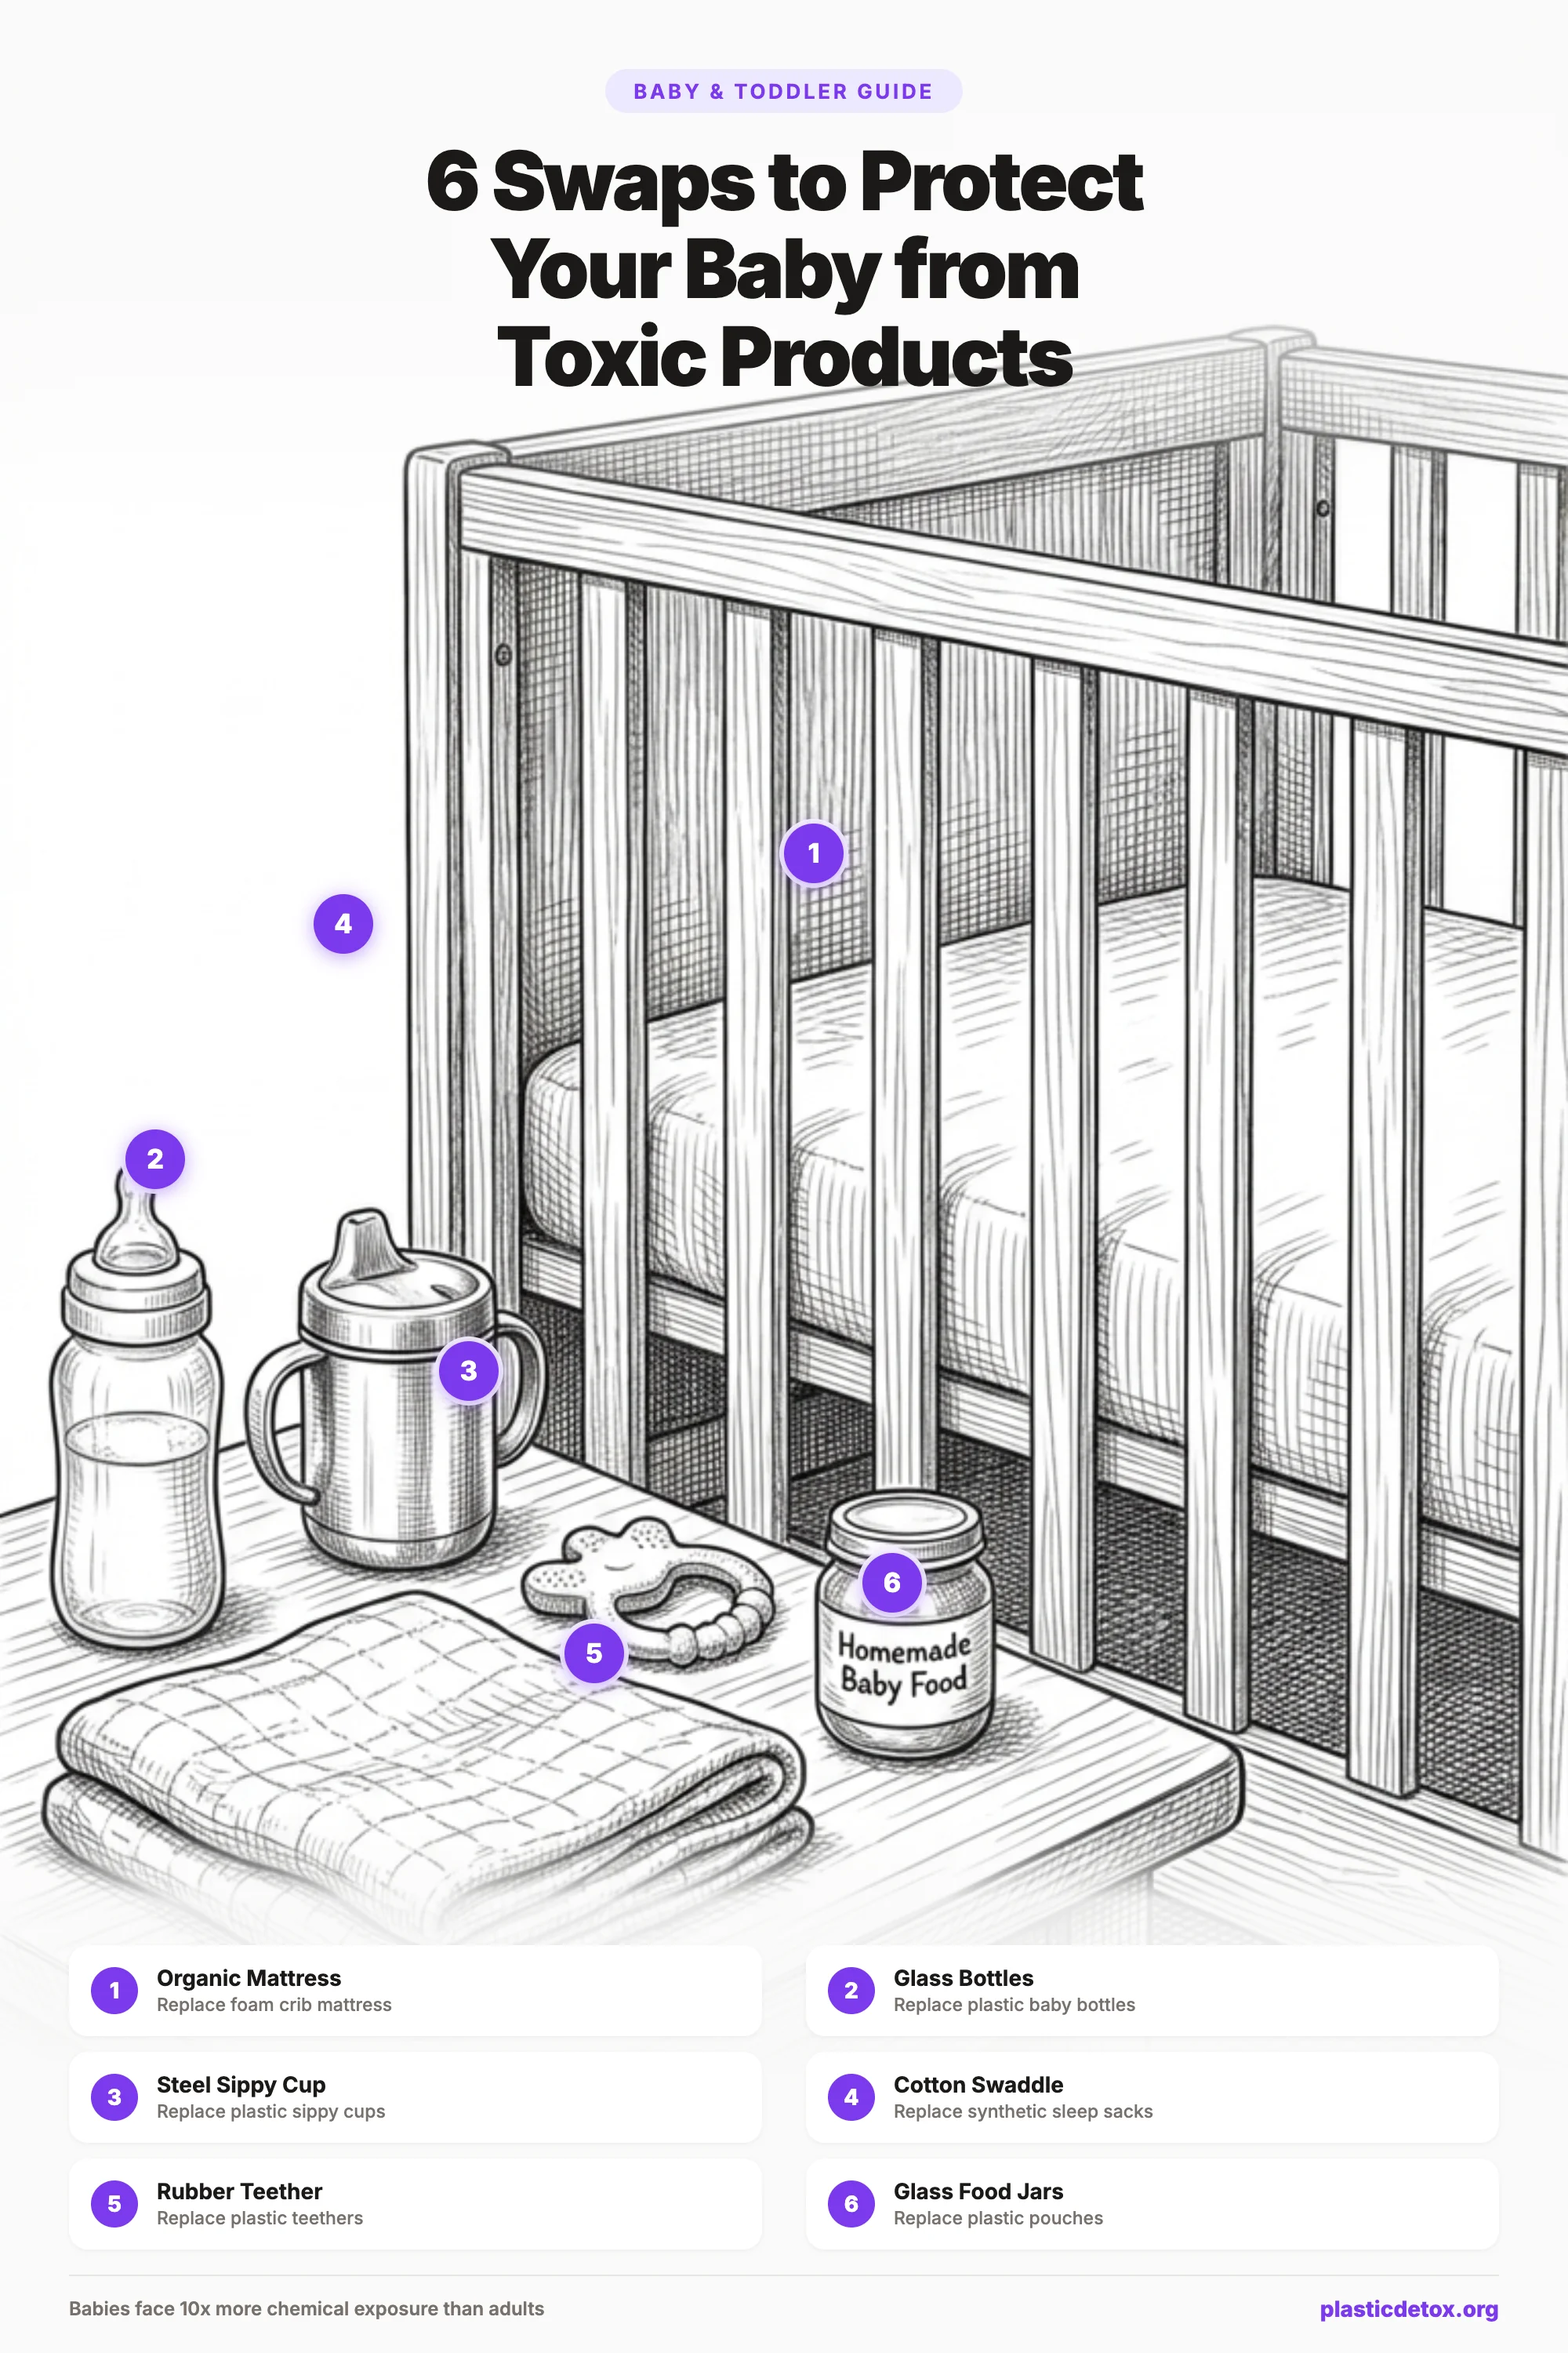
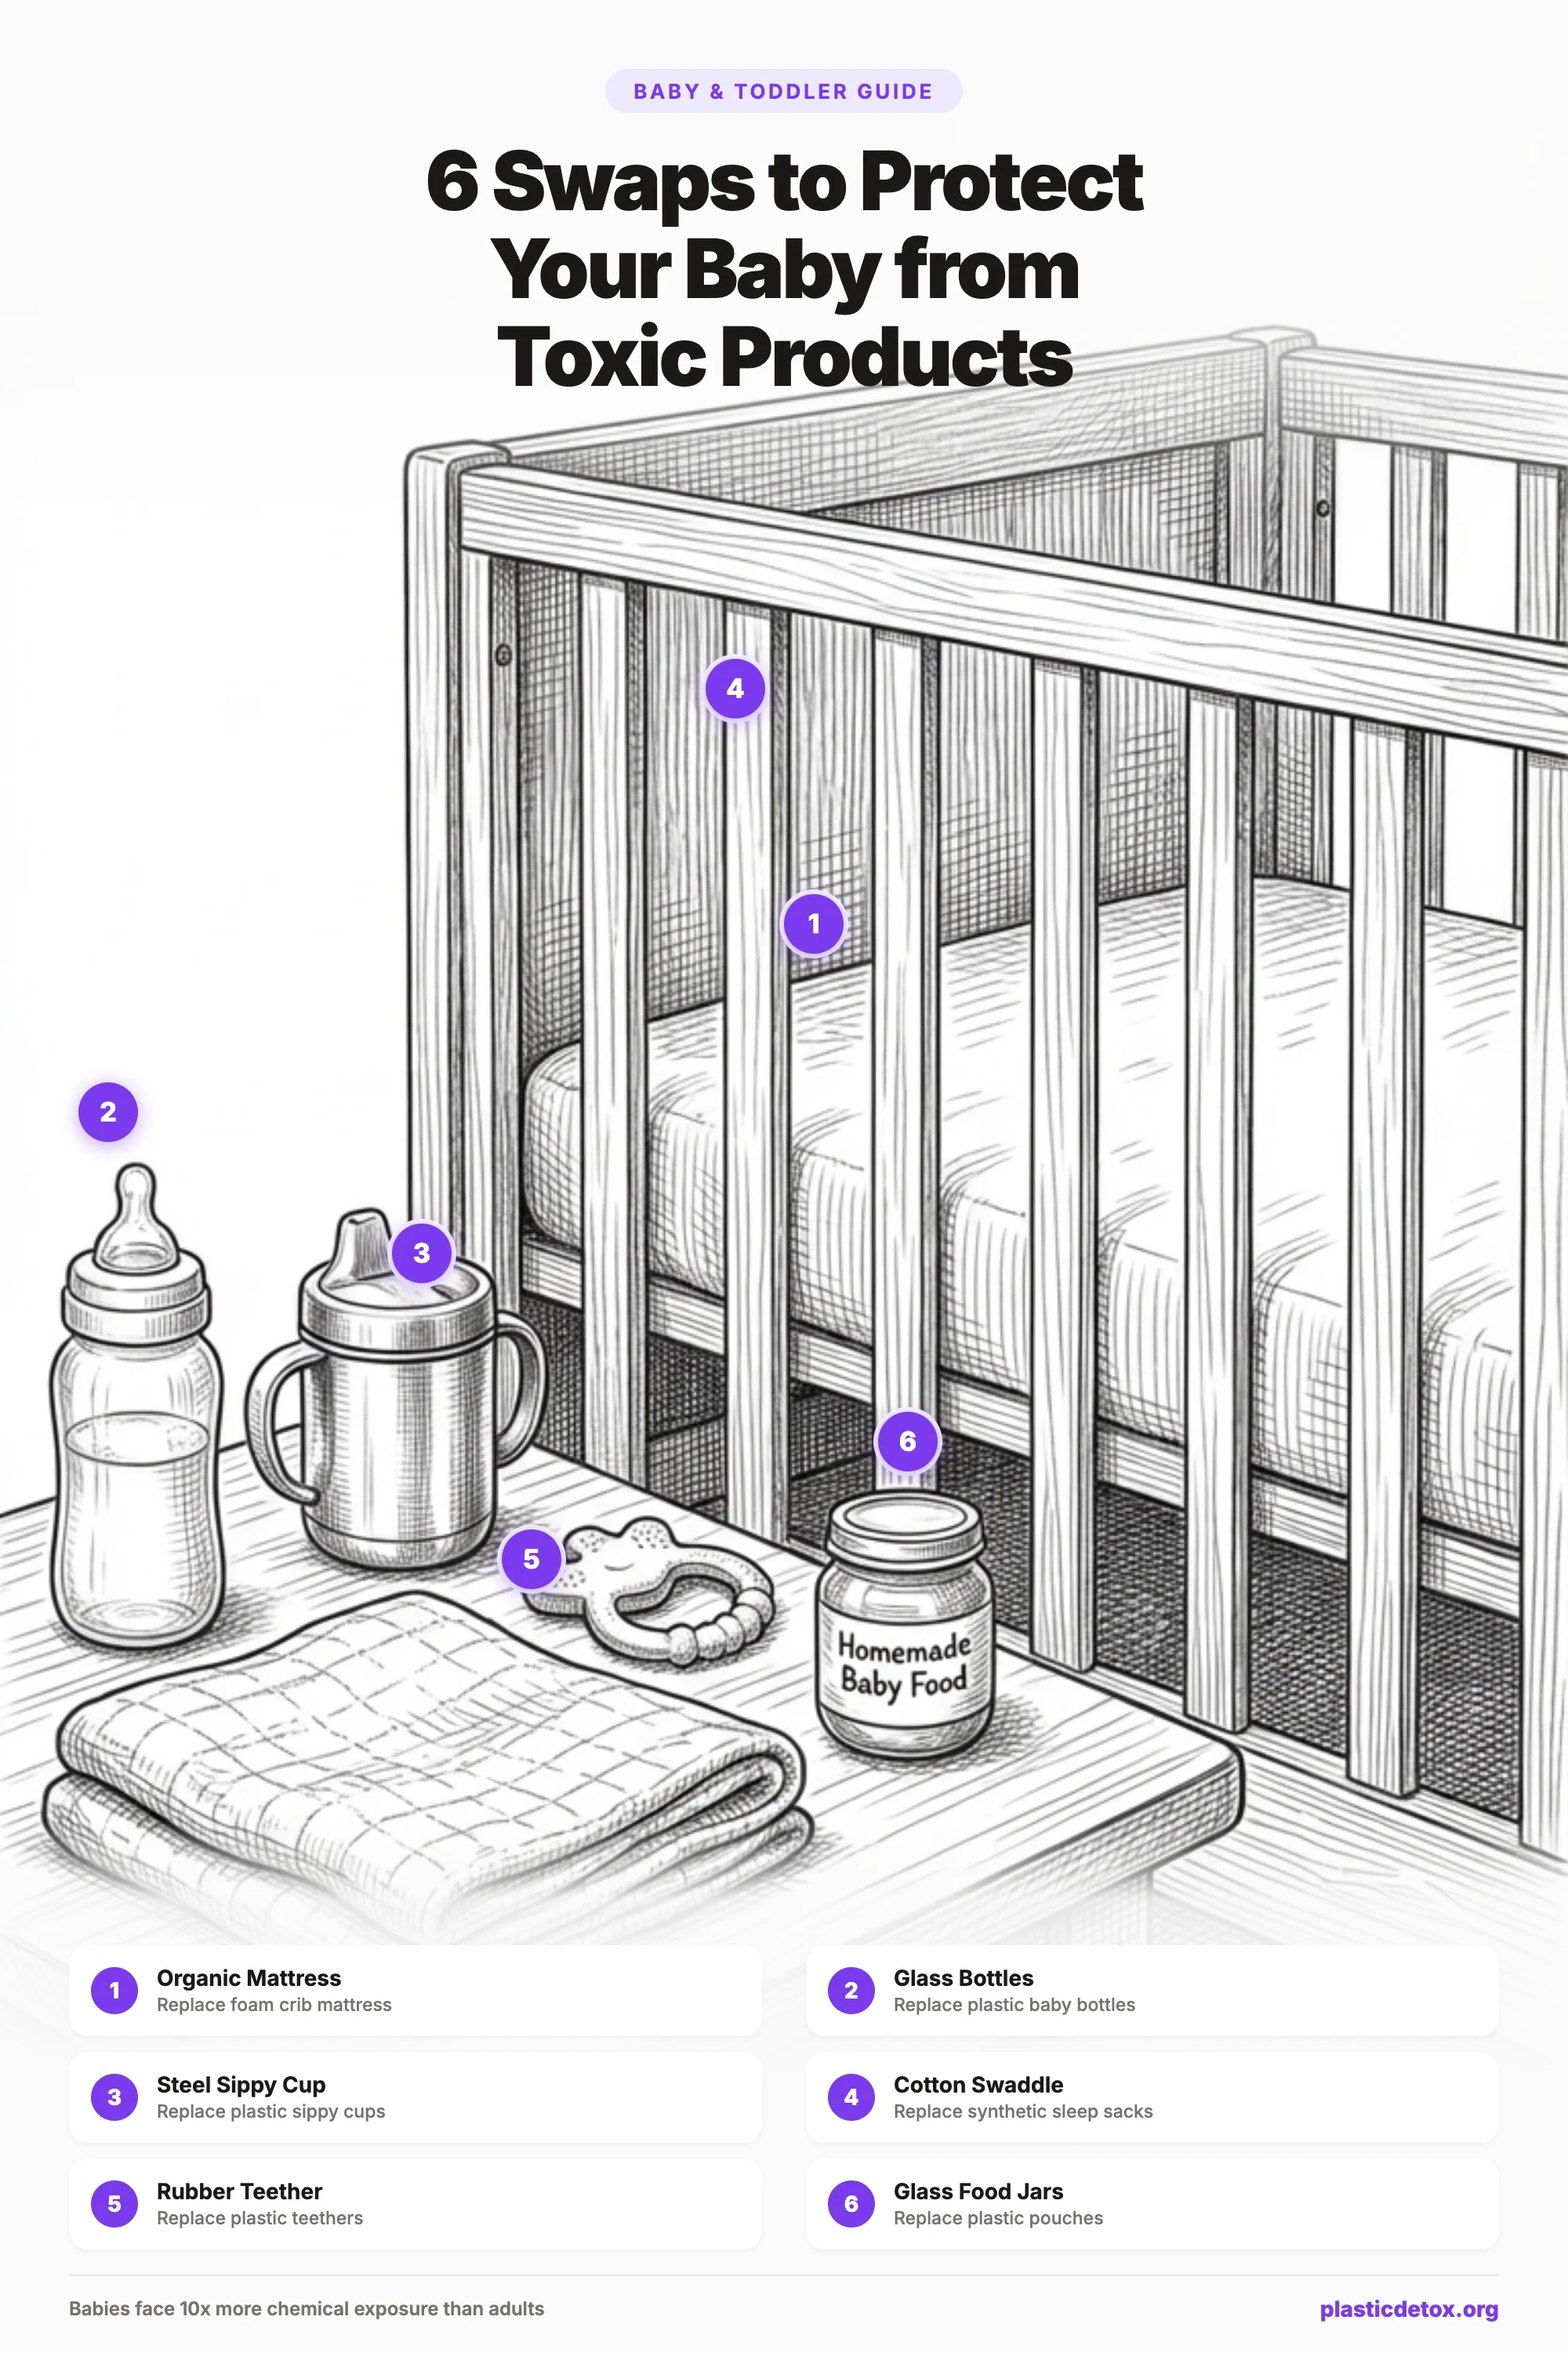
Reposition pin badges with larger shifts for clarity

diff --git a/images/baby-guide-swap-pinterest.html b/images/baby-guide-swap-pinterest.html
@@ -88,12 +88,12 @@
       z-index: 3;
     }
 
-    .badge-1 { left: 50%; top: 35%; }
-    .badge-2 { left: 8%;  top: 48%; }
-    .badge-3 { left: 28%; top: 57%; }
-    .badge-4 { left: 20%; top: 38%; }
-    .badge-5 { left: 36%; top: 69%; }
-    .badge-6 { left: 55%; top: 66%; }
+    .badge-1 { left: 50%; top: 38%; }
+    .badge-2 { left: 5%;  top: 46%; }
+    .badge-3 { left: 25%; top: 52%; }
+    .badge-4 { left: 45%; top: 28%; }
+    .badge-5 { left: 32%; top: 65%; }
+    .badge-6 { left: 56%; top: 60%; }
 
     /* ─── BOTTOM: swap legend card ─── */
     .bottom-card {
